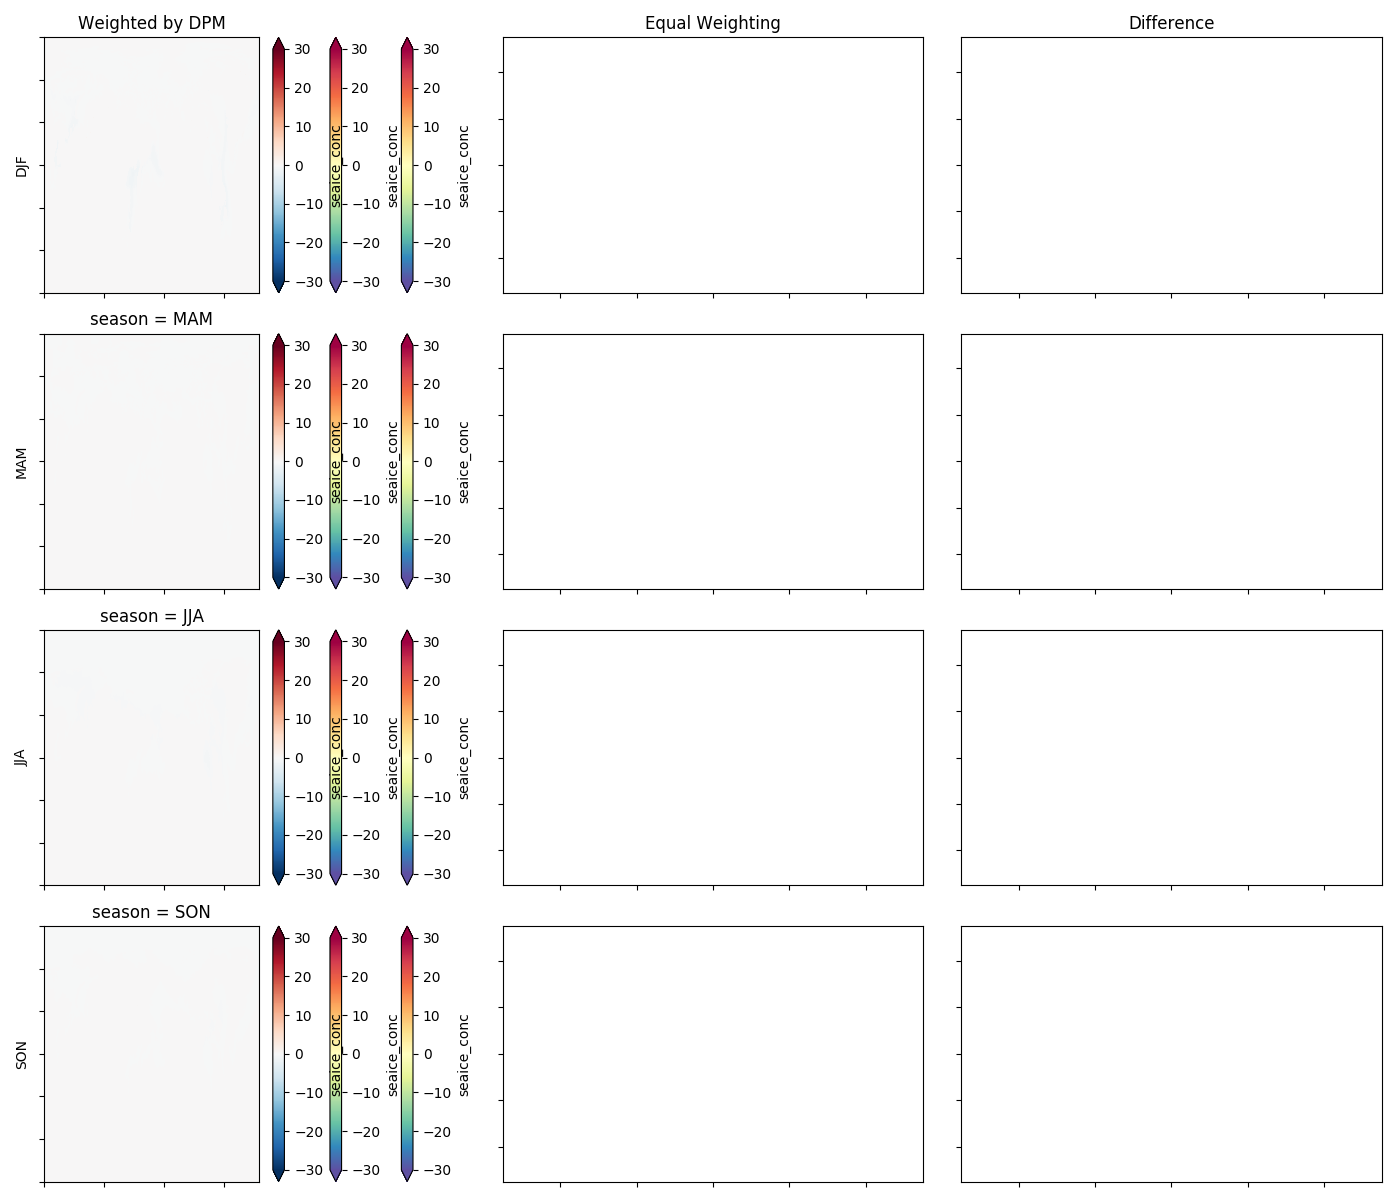
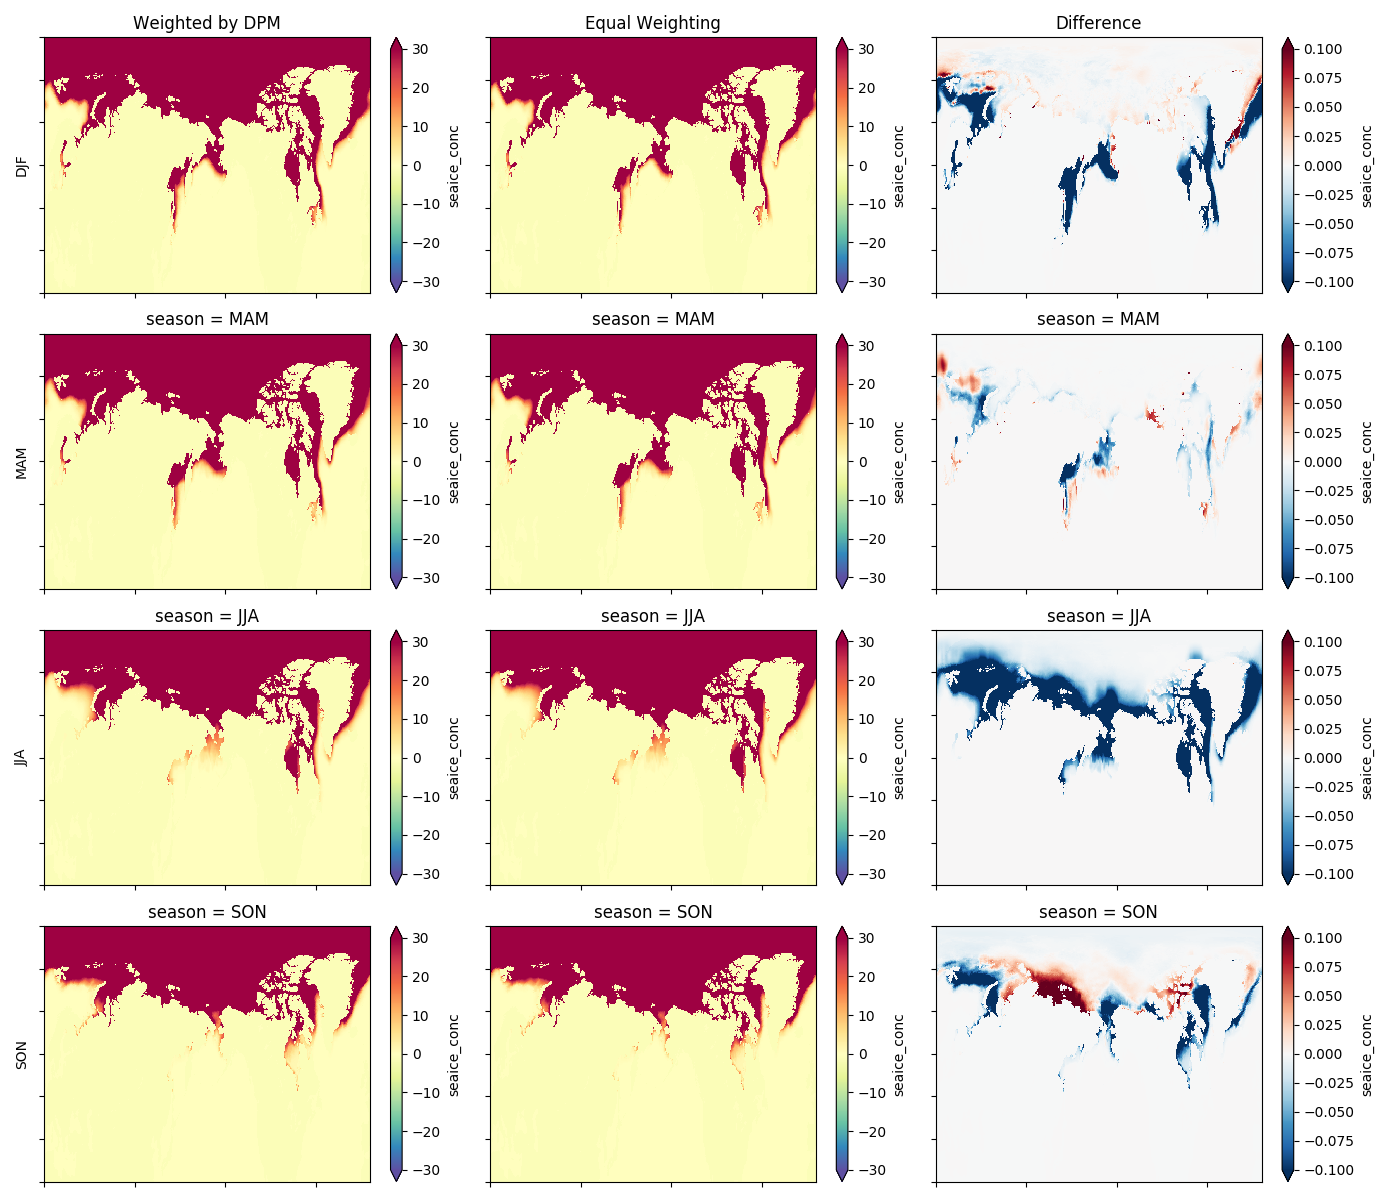
fixed bug

diff --git a/arctic_analysis.py b/arctic_analysis.py
@@ -5,11 +5,7 @@ import pandas as pd
 import numpy as np
 import xarray as xr
 import netCDF4
-
-import matplotlib
-matplotlib.use('Agg')
 import matplotlib.pyplot as plt
-
 
 
 dpm = {'noleap': [0, 31, 28, 31, 30, 31, 30, 31, 31, 30, 31, 30, 31],
@@ -100,11 +96,11 @@ def main():
             add_colorbar=True, extend='both')
 
         ds_unweighted['seaice_conc'].sel(season=season).where(notnull).plot.pcolormesh(
-            ax=axes[i, 0], vmin=-30, vmax=30, cmap='Spectral_r',
+            ax=axes[i, 1], vmin=-30, vmax=30, cmap='Spectral_r',
             add_colorbar=True, extend='both')
 
         ds_diff['seaice_conc'].sel(season=season).where(notnull).plot.pcolormesh(
-            ax=axes[i, 0], vmin=-30, vmax=30, cmap='RdBu_r',
+            ax=axes[i, 2], vmin=-0.1, vmax=0.1, cmap='RdBu_r',
             add_colorbar=True, extend='both')
 
         axes[i, 0].set_ylabel(season)
@@ -124,6 +120,7 @@ def main():
     plt.tight_layout()
     fig.suptitle('Seasonal Concentration', fontsize=16, y=1.02)
     fig.savefig('./seasonal_conc.png')
+    plt.show()
     plt.close(fig)
 
 
